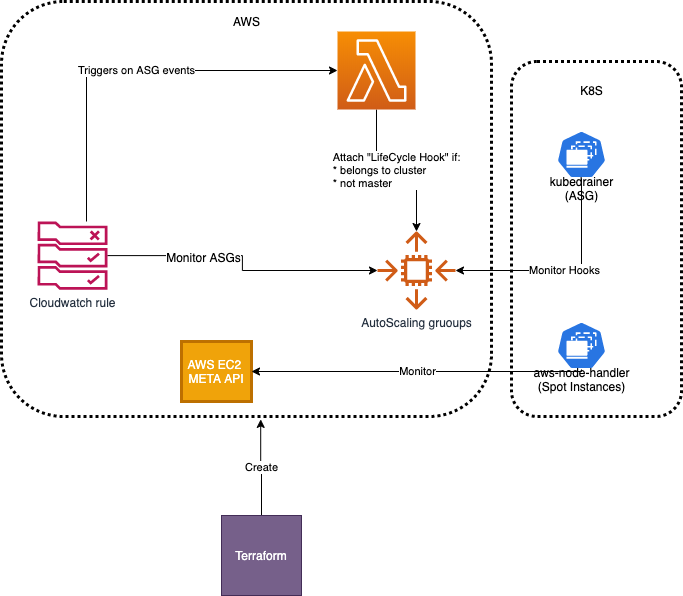
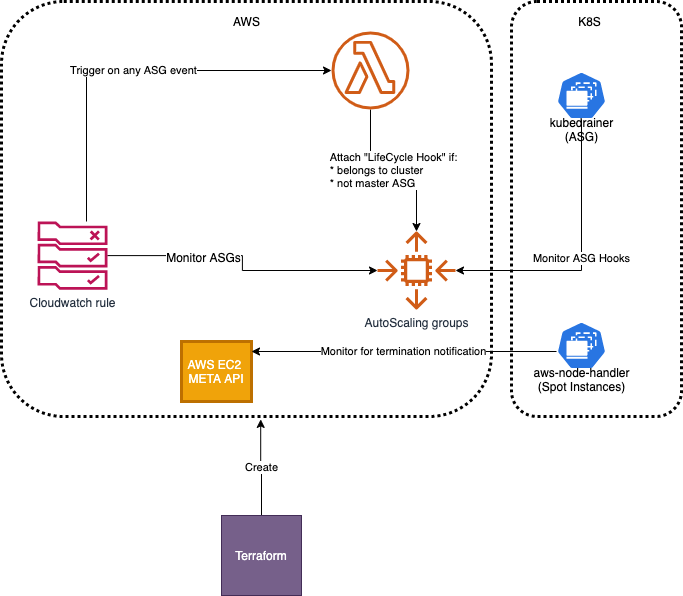
Added initial lambda function invocation & refactored diagram & cleanup
Github issue: #241

diff --git a/aws-drainer/README.md b/aws-drainer/README.md
@@ -9,5 +9,4 @@ A Kubernetes DaemonSet to gracefully handle EC2 Spot Instance interruptions and 
 
 ## Architecture
 
-diagram
 ![diagram](aws-drainer.png)
